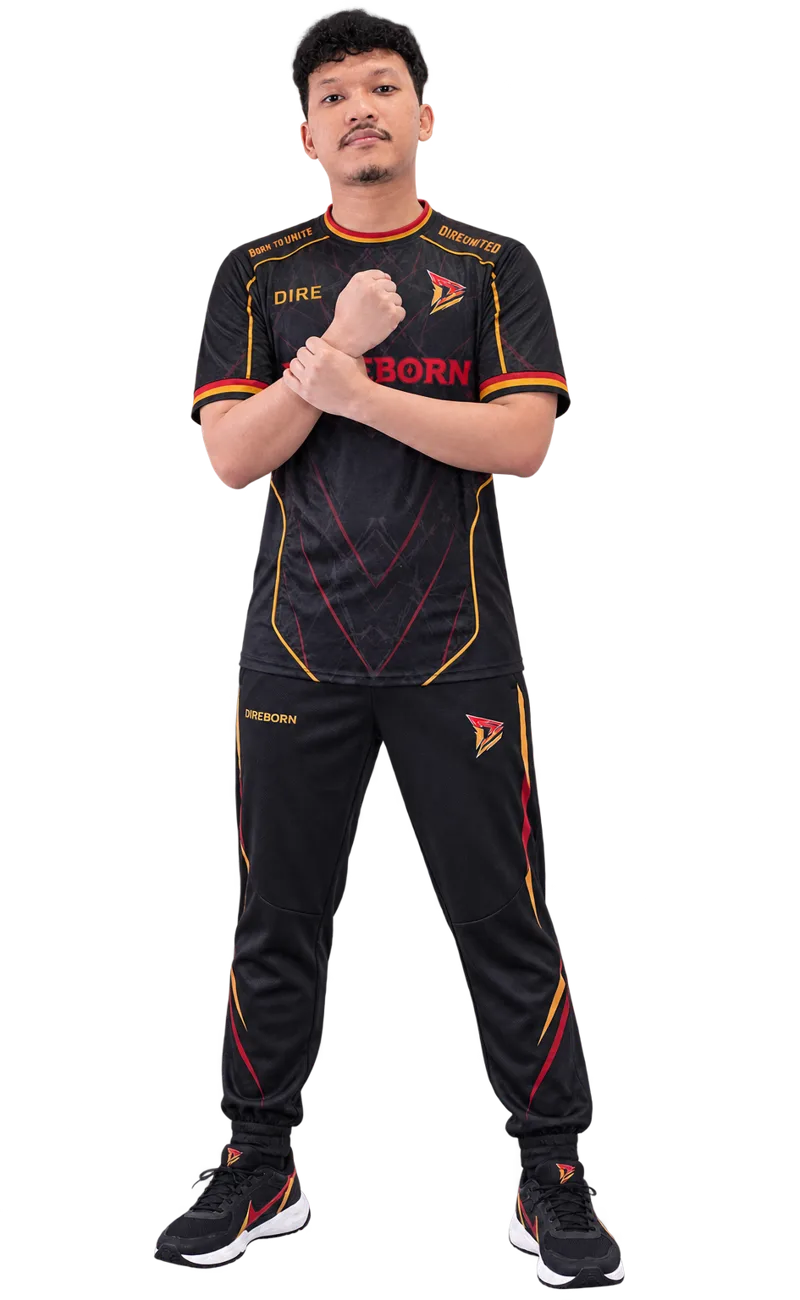
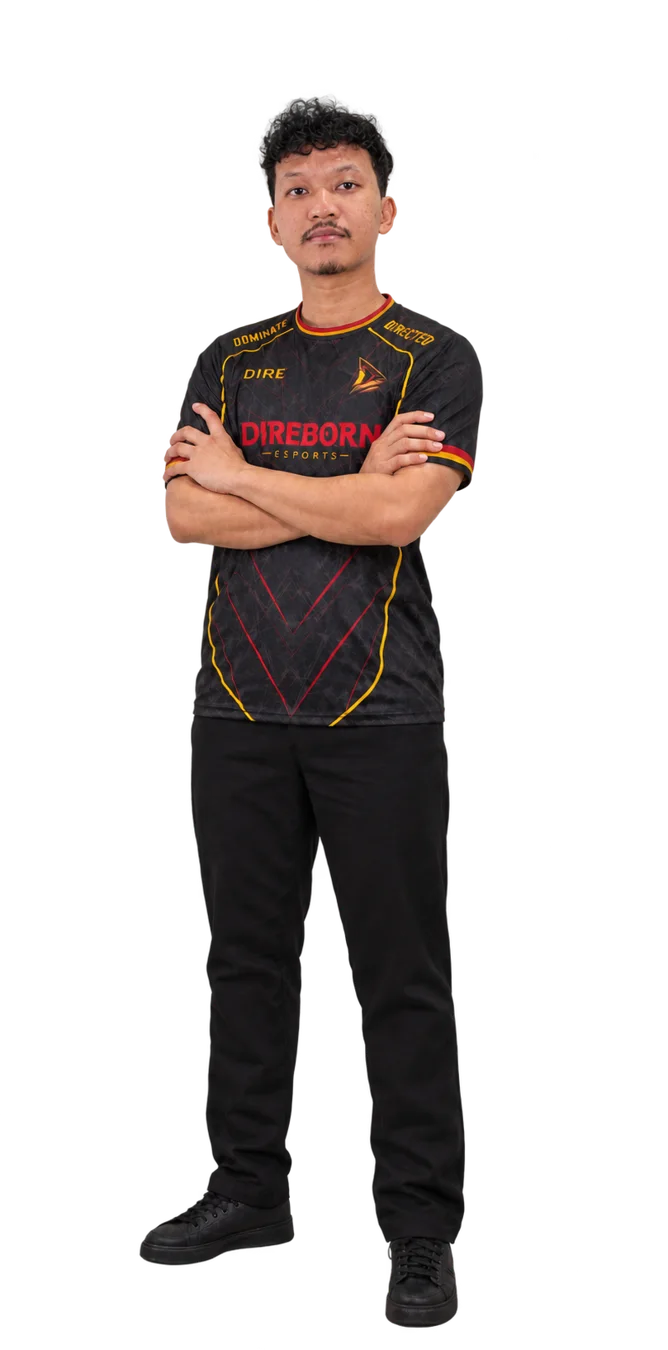
New player photos; files now named after each player
- Roster and the Who we are lineup use the updated standing photos
- db.webp is db-, dalul.webp is dalul (the old swap is gone)
- Per-card framing (--h/--x/--y) keeps every head the same size and height

Claude-Session: https://claude.ai/code/session_01KThcQEojyVDPvNMSwkWRv8

Changed region(s): [[0.1796, 0.0, 0.7784, 1.0]]

diff --git a/index.html b/index.html
@@ -180,7 +180,7 @@ body.nogl{background:radial-gradient(70% 80% at 20% 100%,rgba(218,33,48,.16),tra
 .ph{position:relative;flex:1;min-height:0;overflow:hidden;background:linear-gradient(180deg,rgba(239,232,227,.02) 20%,rgba(218,33,48,.22));border-bottom:2px solid var(--red)}
 .ph::before{content:attr(data-idx);position:absolute;top:.8rem;left:.9rem;z-index:2;font-family:var(--f-mono);font-size:var(--t-label);color:var(--mute)}
 .ph::after{content:"";position:absolute;inset:60% 0 0 0;background:linear-gradient(transparent,rgba(12,9,8,.9));pointer-events:none}
-.ph img{position:absolute;top:2.4rem;left:50%;height:var(--h);width:auto;max-width:none;translate:var(--x) 0;transform-origin:50% 12%;transition:scale .6s var(--ease);filter:drop-shadow(0 1rem 2rem rgba(0,0,0,.6))}
+.ph img{position:absolute;top:2.4rem;left:50%;height:var(--h);width:auto;max-width:none;translate:var(--x) var(--y,0);transform-origin:50% 12%;transition:scale .6s var(--ease);filter:drop-shadow(0 1rem 2rem rgba(0,0,0,.6))}
 .player:hover .ph img{scale:1.06}
 .nm{padding-top:1rem;display:grid;gap:.2rem}
 .nm b{font-family:var(--f-display);font-size:2.3rem;font-weight:700;line-height:1}
@@ -747,7 +747,7 @@ tbody tr:hover{background:rgba(239,232,227,.05)}
             <div><dt class="mono">Game</dt><dd>Dota 2</dd></div>
           </dl>
         </div>
-        <figure><img src="assets/team.webp" alt="The five Direborn players: Dreamocel, db-, PotaT2, dalul and woMy"><figcaption class="mono">Dreamocel · db- · PotaT2 · dalul · woMy</figcaption></figure>
+        <figure><img src="assets/team.webp" alt="The five Direborn players: db-, Dreamocel, PotaT2, woMy and dalul"><figcaption class="mono">db- · Dreamocel · PotaT2 · woMy · dalul</figcaption></figure>
       </div>
     </div>
   </div>
@@ -790,11 +790,11 @@ tbody tr:hover{background:rgba(239,232,227,.05)}
     <div class="eyebrow mono rv" data-vt="eyebrow"><b>03</b><span class="en">The roster</span><span class="id">Roster</span></div>
     <div class="body">
       <div class="roster">
-        <div class="player" style="--d:0"><div class="ph" data-idx="01" style="--h:45.6rem;--x:-49.6%"><img src="assets/dreamocel.webp" alt="Dreamocel"></div><div class="nm"><b>Dreamocel</b><span class="mono">Randy Sapoetra</span></div></div>
-        <div class="player" style="--d:1"><div class="ph" data-idx="02" style="--h:48.6rem;--x:-46.9%"><img src="assets/womy.webp" alt="woMy"></div><div class="nm"><b>woMy</b><span class="mono">Said Romy</span></div></div>
-        <div class="player" style="--d:2"><div class="ph" data-idx="03" style="--h:53rem;--x:-44.9%"><img src="assets/potat2.webp" alt="PotaT2"></div><div class="nm"><b>PotaT2</b><span class="mono">Noel Pinot</span></div></div>
-        <div class="player" style="--d:3"><div class="ph" data-idx="04" style="--h:38rem;--x:-51.8%"><img src="assets/dalul.webp" alt="db-"></div><div class="nm"><b>db-</b><span class="mono">Daud Budiawan</span></div></div>
-        <div class="player" style="--d:4"><div class="ph" data-idx="05" style="--h:37.4rem;--x:-53.4%"><img src="assets/db.webp" alt="dalul"></div><div class="nm"><b>dalul</b><span class="mono">Abdalla Putra Afemi</span></div></div>
+        <div class="player" style="--d:0"><div class="ph" data-idx="01" style="--h:49.1rem;--x:-37.9%;--y:-1.2%"><img src="assets/dreamocel.webp" alt="Dreamocel"></div><div class="nm"><b>Dreamocel</b><span class="mono">Randy Sapoetra</span></div></div>
+        <div class="player" style="--d:1"><div class="ph" data-idx="02" style="--h:52rem;--x:-47.6%;--y:-.8%"><img src="assets/womy.webp" alt="woMy"></div><div class="nm"><b>woMy</b><span class="mono">Said Romy</span></div></div>
+        <div class="player" style="--d:2"><div class="ph" data-idx="03" style="--h:55.5rem;--x:-48.6%;--y:-7.3%"><img src="assets/potat2.webp" alt="PotaT2"></div><div class="nm"><b>PotaT2</b><span class="mono">Noel Pinot</span></div></div>
+        <div class="player" style="--d:3"><div class="ph" data-idx="04" style="--h:45.9rem;--x:-51.7%;--y:-.4%"><img src="assets/db.webp" alt="db-"></div><div class="nm"><b>db-</b><span class="mono">Daud Budiawan</span></div></div>
+        <div class="player" style="--d:4"><div class="ph" data-idx="05" style="--h:55.3rem;--x:-53%;--y:-8.4%"><img src="assets/dalul.webp" alt="dalul"></div><div class="nm"><b>dalul</b><span class="mono">Abdalla Putra Afemi</span></div></div>
       </div>
     </div>
   </div>

diff --git a/CLAUDE.md b/CLAUDE.md
@@ -48,7 +48,8 @@ reach, content, production, roadmap, partner, contact
 ## Decisions already made by the owner (keep these)
 
 - Player IDs, exact spelling: Dreamocel, woMy, PotaT2, db-, dalul.
-  Photo files are named the wrong way round: **db- uses `dalul.webp` (sitting), dalul uses `db.webp` (pointing)**.
+  Player photos (updated 11 Nov 2026, all standing with arms crossed) are named after the player:
+  `dreamocel.webp`, `womy.webp`, `potat2.webp`, `db.webp` (db-), `dalul.webp`. Framing per card via `--h/--x/--y`.
 - Write **Direbattle** as one word everywhere (never "Direbattle").
 - No company name (PT Prosperity Unggul Abadi) on the slides for now.
 - Direbattle Pro Circuit order: Cup → League (Liga) → National (Nasional, a LAN/offline tournament) → International.
